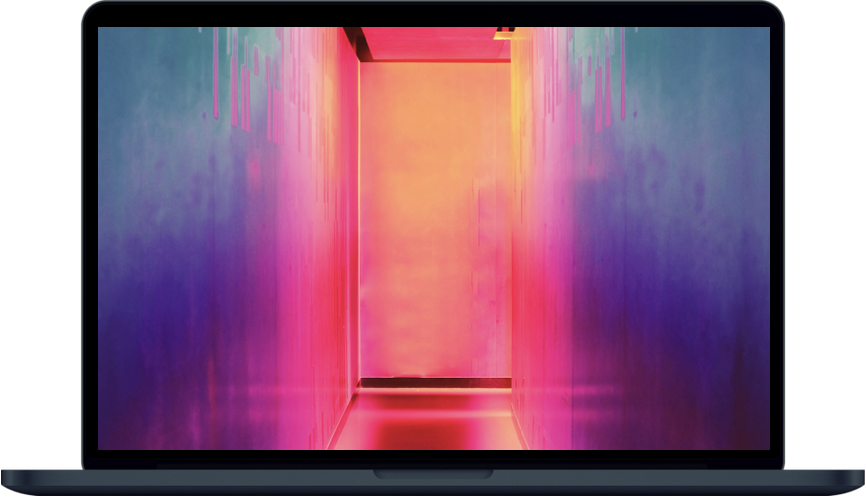
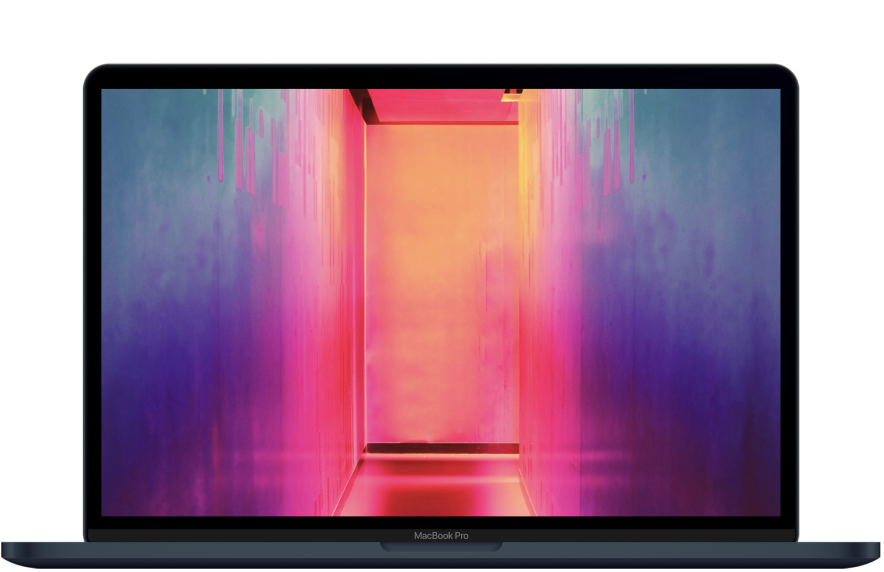
main

diff --git a/MacBookPage/style1.css b/MacBookPage/style1.css
@@ -45,9 +45,10 @@ body {
 }
 
 .MacBook__image {
-  position: absolute;
+  /* position: absolute; */
   left: 28%;
   width: 45vw;
+  /* margin-top: 8%; */
 }
 
 /* .Screen__image {
@@ -90,6 +91,7 @@ body {
   outline: none;
   border-radius: 35px;
   transition: ease-in-out 0.2s;
+  margin-top: 0.5%;
 }
 
 .btn:hover {
@@ -97,18 +99,26 @@ body {
 }
 
 .cursor__mag {
-  background: url("../assets/MacBookImage.png") no-repeat #FFF;
-  width:400px;
-  height:400px;
+  background: url("../assets/MacBookImage.png") no-repeat ;
+  width:310px;
+  height:310px;
   opacity: 0;
   position: absolute;
   pointer-events:none;
   border:1.5px solid rgba(0.5,0.5,0.5,0.2);
-  box-shadow:0 0 0 4px rgba(20, 19, 19, 0.742);
+  box-shadow:0 0 0 4px rgb(20, 19, 19);
   border-radius: 100%;
   display:block;
-  transition:opacity 0.3s;
+  transition:opacity ease-in-out.3s;
   z-index: 99;
+ 
+}
+
+.MacBook{
+    position:relative;
+    height: fit-content;
+    /* margin-top: 4%; */
+    height: 200px;
 }
 
 .MacBook:hover , .MacBook:active {
@@ -117,6 +127,6 @@ body {
 }
 
 
-.MacBook:hover .MacBook__image , .MacBook:active .MacBook__image{
+.MacBook:hover .cursor__mag , .MacBook:active .cursor__mag{
     opacity: 1;
 }

diff --git a/MacBookPage/index1.html b/MacBookPage/index1.html
@@ -3,7 +3,7 @@
     <head>
         <meta charset="UTF-8">
         <meta name="viewport" content="width=device-width, initial-scale=1.0">
-        <link rel="stylesheet" href="../css/style1.css">
+        <link rel="stylesheet" href="./style1.css">
         <title>Document</title>
     </head>
     <d>
@@ -31,6 +31,7 @@
                     <div class="MacBook">
                         <img src="../assets/MacBookImage.png" alt="MacBook"
                             class="MacBook__image">
+                        <div class="cursor__mag"></div>
                     </div>
                     <!-- <div class="Screen">
                         <img src="../assets/Screen.png" alt="Screen"
@@ -57,7 +58,7 @@
                             different design <br /> projects. It's easy!
                         </div>
                     </div>
-                    <div class="cursor__mag"></div>
+
                 </div>
 
             </div>
@@ -65,5 +66,5 @@
         </div>
 
     </body>
-    <script src="../js/script1.js"></script>
+    <script src="./script1.js"></script>
 </html>

diff --git a/MacBookPage/script1.js b/MacBookPage/script1.js
@@ -1,0 +1,28 @@
+let MacBookMagnified = document.querySelector(".MacBook");
+let MacBook = document.querySelector(".MacBook__image");
+let MacBookDetails = document.querySelector(".cursor__mag");
+
+MacBookMagnified.addEventListener("mousemove", MagnifyImage, false);
+
+function MagnifyImage(e) {
+  style = MacBookDetails.style;
+  X = e.pageX - this.offsetLeft;
+  Y = e.pageY - this.offsetTop;
+  innerImageWidth = MacBook.offsetWidth;
+  innerImageHeight = MacBook.offsetHeight;
+  ImagX = (X / innerImageWidth) * 100;
+  ImgY = (Y / innerImageHeight) * 100;
+  if (X > 0.01 * innerImageWidth) {
+    ImagX += 0.15 * ImagX;
+  }
+  if (Y >= 0.1 * innerImageHeight) {
+    ImgY += 0.15 * ImgY;
+  }
+
+  style.backgroundPositionX = `${ImagX - 9}%`;
+  style.backgroundPositionY = `${ImgY - 9}%`;
+  setTimeout(() => {
+    style.left = X - 380 + "px";
+    style.top = Y - 200 + "px";
+  }, 100);
+}
